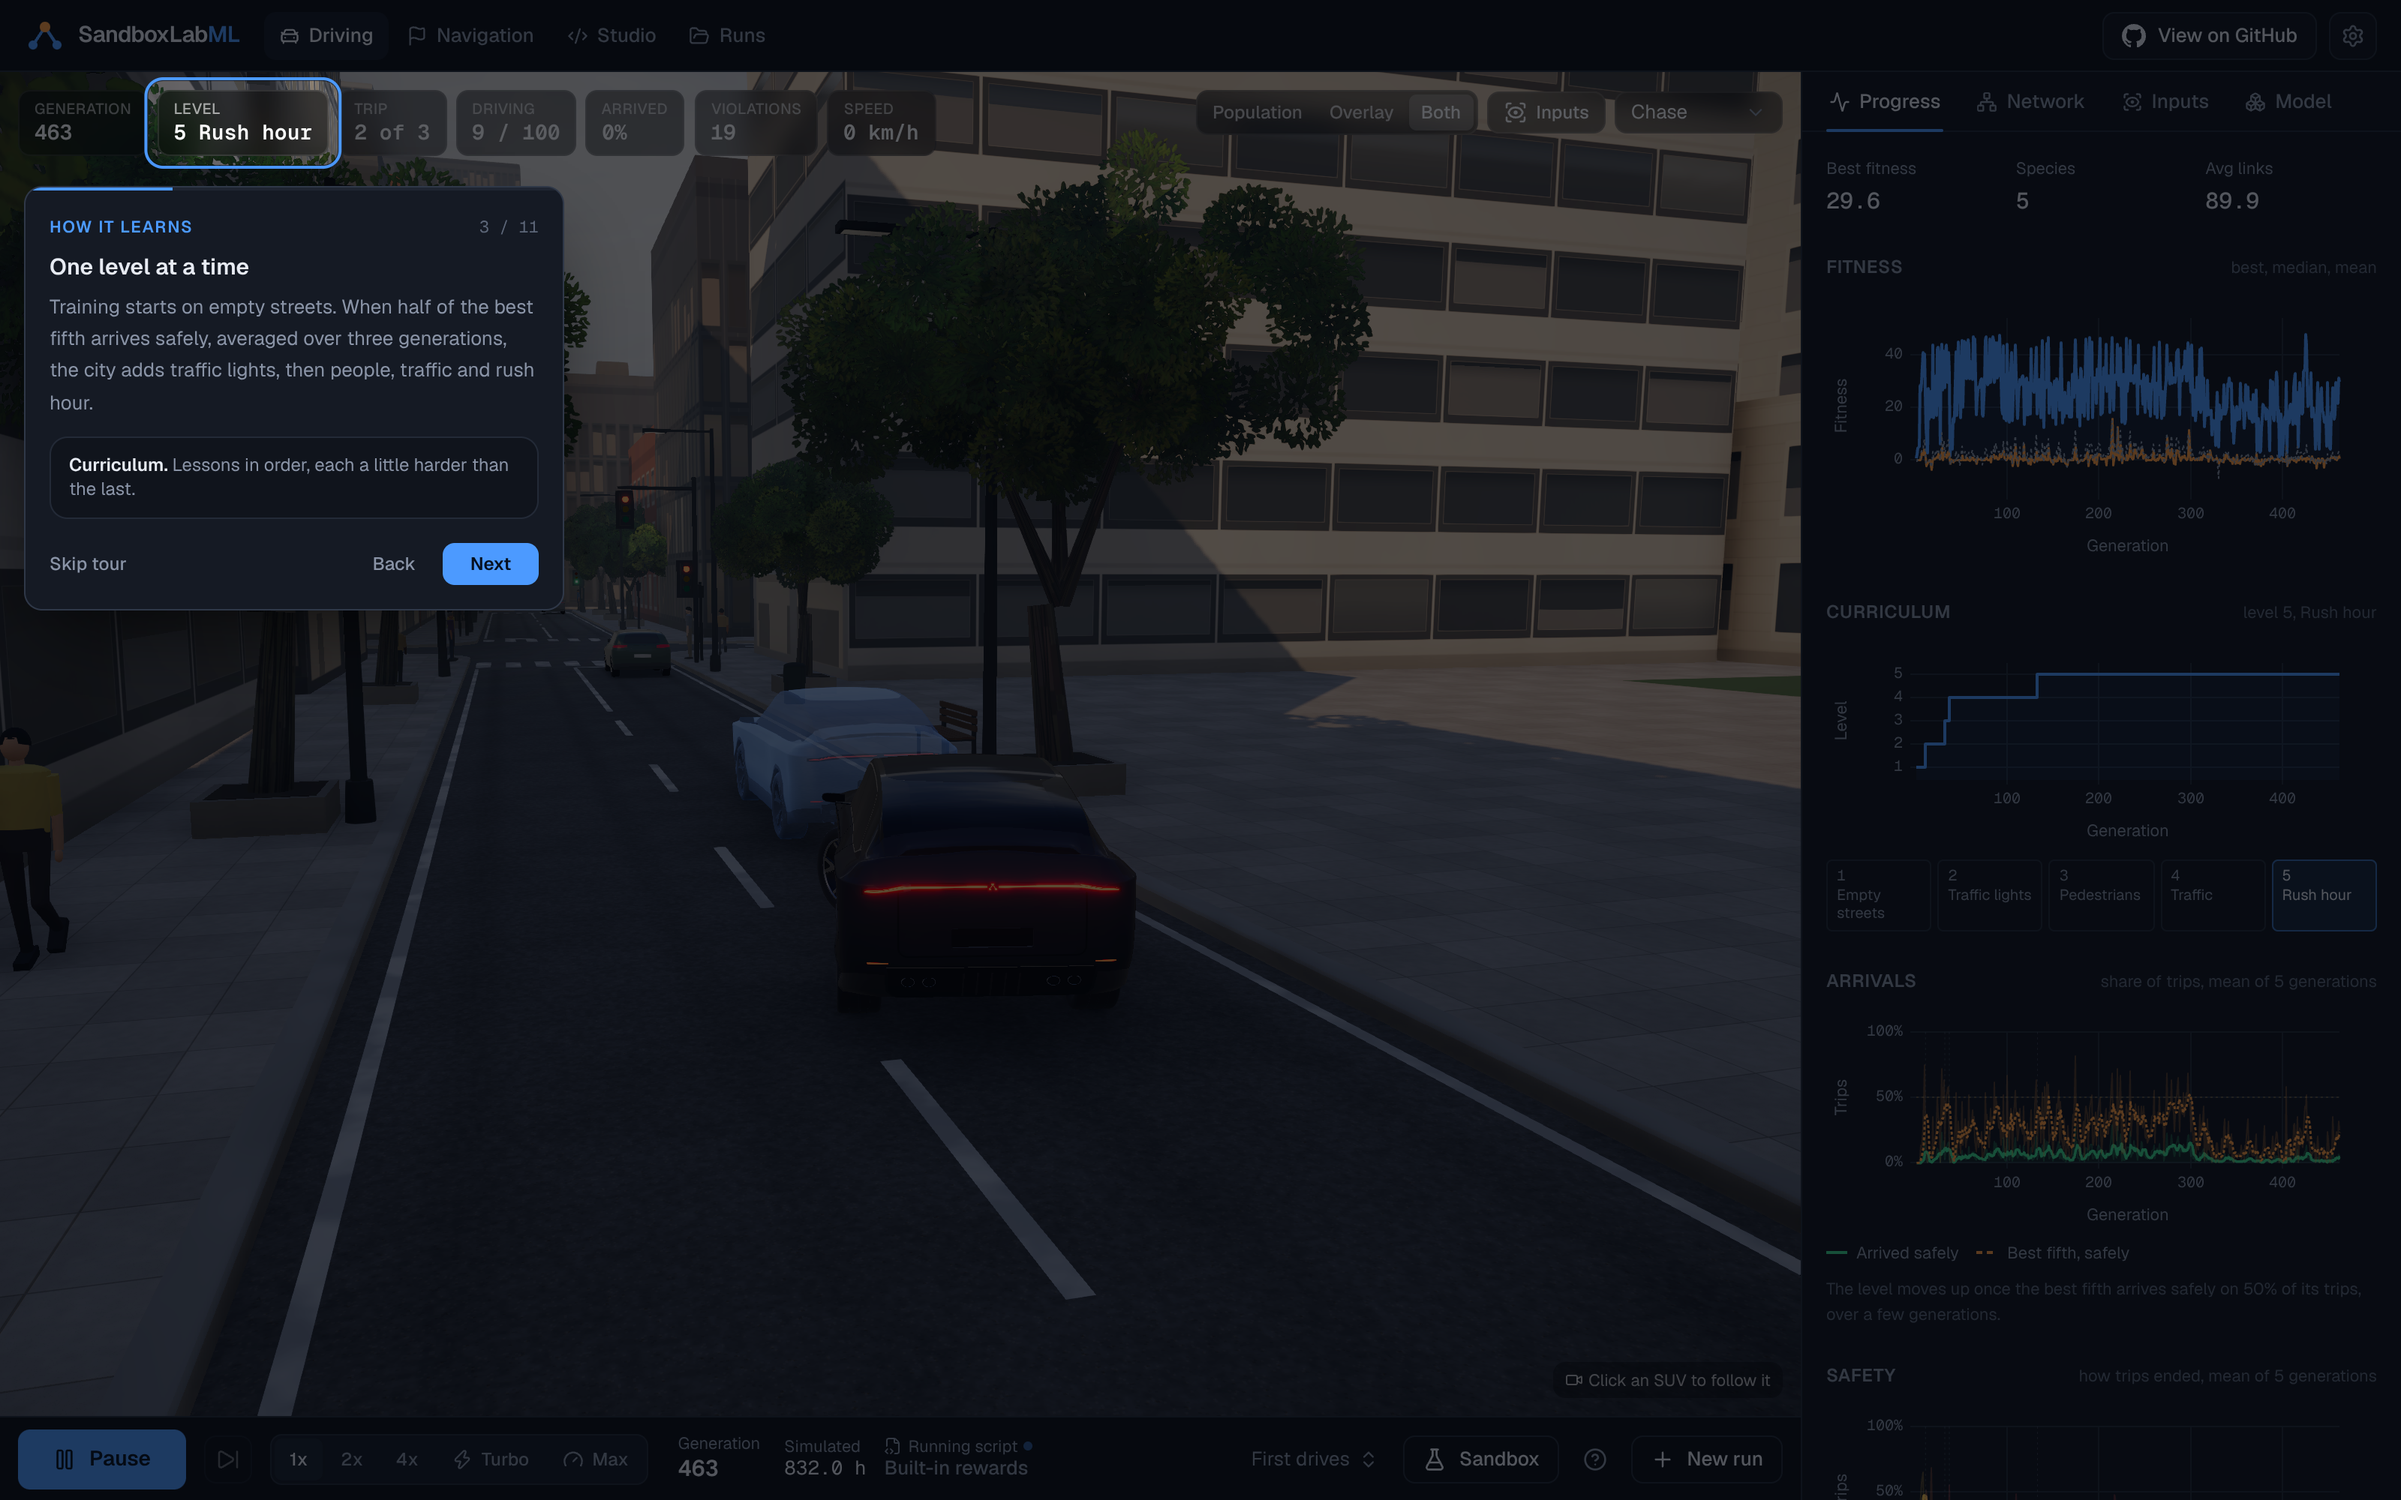
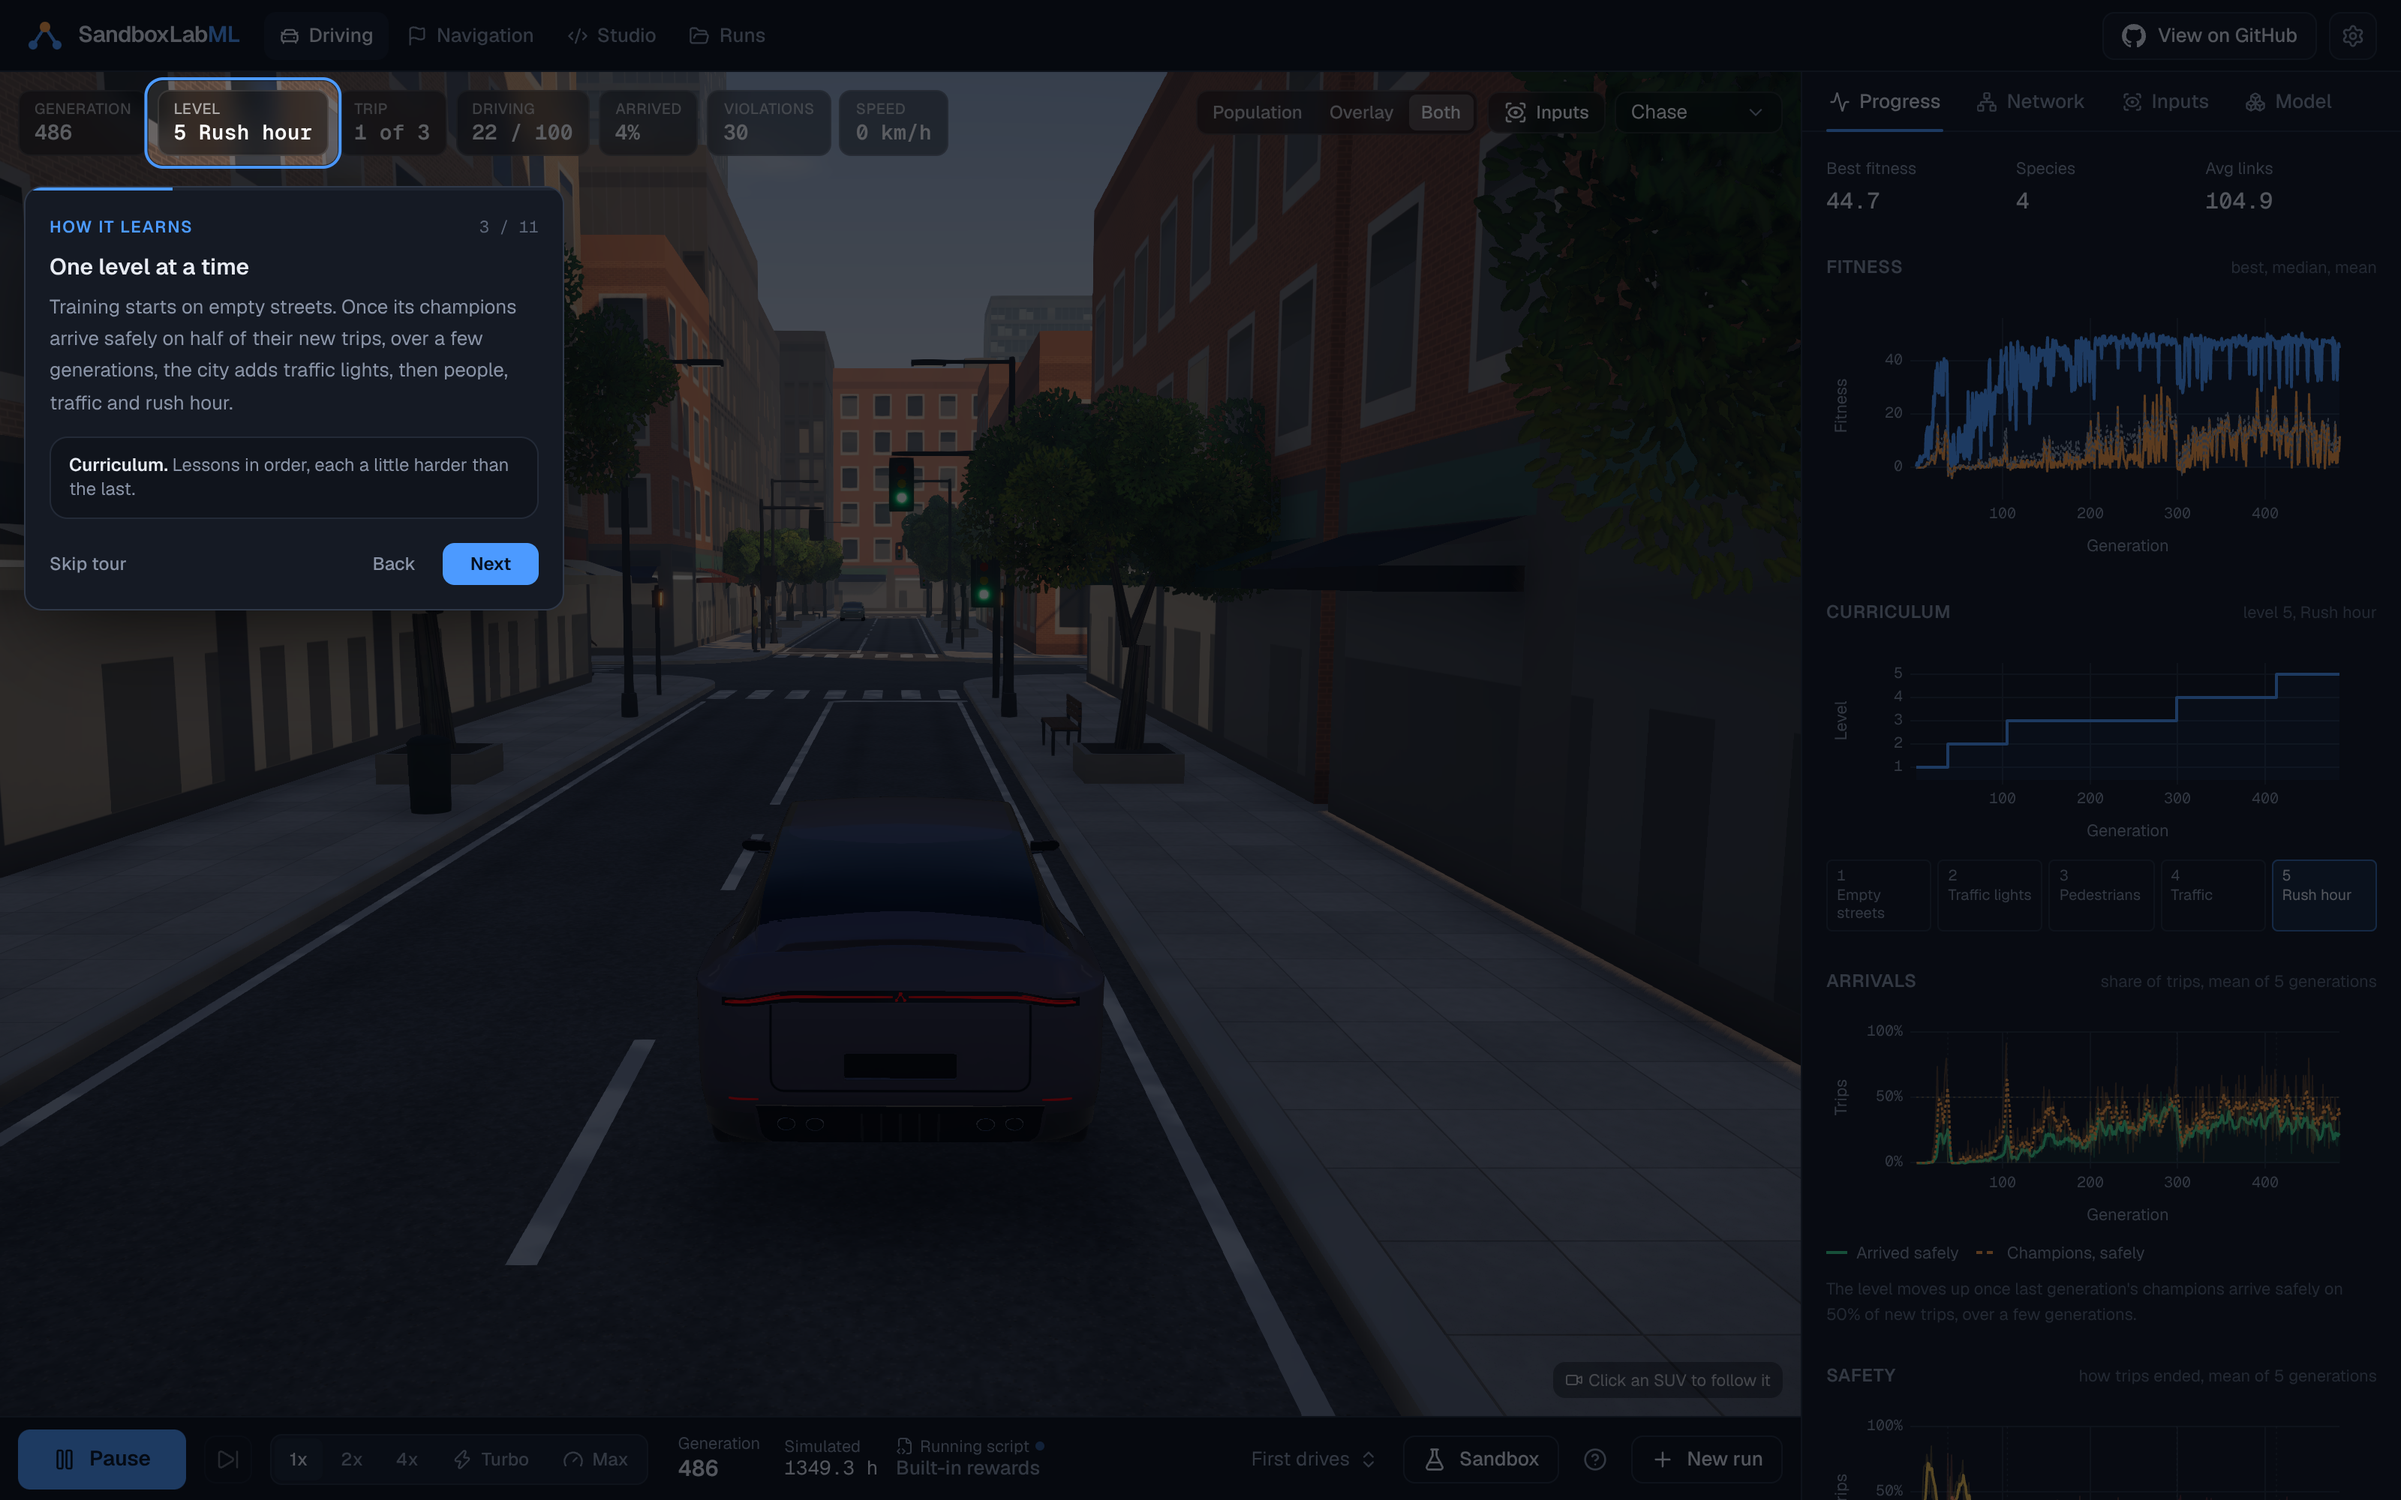
Retake the README screenshots the fixes changed
A fresh Driving run trained on the new curriculum reached rush hour
at generation 405. The chase shot shows the chevrons in the lane and
the light read as Red; the street camera, the Model tab with a solid
SUV, the walkthrough's curriculum step, the Driving Sandbox and the
landing page follow the fixes. The Navigation Sandbox shows the copies
of the trained runner fading behind the followed one. All stay
3200x2000 truecolour PNG.

Claude-Session: https://claude.ai/code/session_01EmVWnswqzbVyRx3Yqy4QPc

diff --git a/README.md b/README.md
@@ -25,15 +25,15 @@ This is the loop that makes machine learning click. You shape the goal and press
 
 ## Screenshots
 
-![Driving lab at rush hour: the chase camera behind the leading SUV as it brakes for a red light with a person crossing ahead, the route and arrows of where it will be next drawn on the road, and what it senses listed on the left](assets/screenshots/driving-chase.png)
+![Driving lab at rush hour: the chase camera behind the leading SUV as it pulls away toward a red light, the route and the arrows of where it will be next drawn in its lane, and what it senses listed on the left, the light read as Red](assets/screenshots/driving-chase.png)
 
 | | |
 | --- | --- |
-| ![Driving lab at rush hour from a street corner: the followed SUV and a van at the junction while people walk past](assets/screenshots/driving-rush-hour.png) | ![Navigation lab following the leading runner and the crowd behind it near the end of the Gauntlet, past a sliding crate and spikes, with the path hint and the arrow to the finish](assets/screenshots/navigation-gauntlet.png) |
-| ![Driving Sandbox: the trained SUV sets off on a trip through Midtown, with the city map to pick where it goes](assets/screenshots/driving-sandbox.png) | ![Navigation Sandbox: copies of the trained runner weave between crates and spikes on the Gauntlet](assets/screenshots/navigation-sandbox.png) |
-| ![Navigation course editor with a copy of the Gauntlet: crates, walls, spikes and two movers](assets/screenshots/navigation-editor.png) | ![The home screen: a trained SUV stops for a person at a red light beside a trained runner crossing the Gauntlet, each with its live brain](assets/screenshots/landing.png) |
+| ![Driving lab at rush hour from the street camera: the followed SUV comes down the street from the junction while people walk past, with the curriculum chart beside it](assets/screenshots/driving-rush-hour.png) | ![Navigation lab following the leading runner and the crowd behind it near the end of the Gauntlet, past a sliding crate and spikes, with the path hint and the arrow to the finish](assets/screenshots/navigation-gauntlet.png) |
+| ![Driving Sandbox: the trained SUV sets off on a rush hour trip through Midtown, with the city map to pick where it goes](assets/screenshots/driving-sandbox.png) | ![Navigation Sandbox: the trained runner heads for a gap in the walls of the Gauntlet, its copies fading behind it](assets/screenshots/navigation-sandbox.png) |
+| ![Navigation course editor with a copy of the Gauntlet: crates, walls, spikes and two movers](assets/screenshots/navigation-editor.png) | ![The home screen: a trained SUV drives up to a red light beside a trained runner crossing the Gauntlet, each with its live brain](assets/screenshots/landing.png) |
 | ![The first run walkthrough explaining the curriculum while the Driving lab trains at rush hour](assets/screenshots/walkthrough.png) | ![Script Studio in blocks view with the Driving Beginner preset and the Driving lessons](assets/screenshots/studio-blocks.png) |
-| ![Model tab: download the champion brain or the whole run, with the brain's size and how it grew](assets/screenshots/model-tab.png) | ![Brain setup: pick the sensors and start the brain with hidden layers](assets/screenshots/brain-setup.png) |
+| ![Model tab: download the champion brain or the whole run, with the brain's size and how it grew, while the SUV waits in a queue at rush hour](assets/screenshots/model-tab.png) | ![Brain setup: pick the sensors and start the brain with hidden layers](assets/screenshots/brain-setup.png) |
 
 ## What you can do
 
